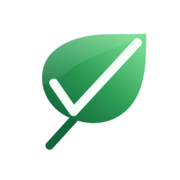
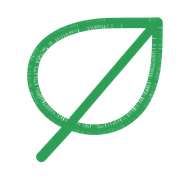
listik-bkhj.a: схематичный контурный листик вместо залитого логотипа
Контур web/public/logo.svg по силуэту прежнего листа; favicon-32.png, apple-touch-icon.png и favicon.ico перегенерированы из той же геометрии.

diff --git a/web/src/components/AppHeader.vue b/web/src/components/AppHeader.vue
@@ -8,7 +8,7 @@
  * Метрики) — в App.vue как UiSegmented: он ничего не переключает в
  * контенте сам, это radiogroup, а не tablist, и он же несёт счётчики.
  *
- * Марка — картинка /logo.svg (зелёный лист, жилка которого — галочка), не UiBrandMark; многоточие названию ставит приложение: слот #brand в ките
+ * Марка — картинка /logo.svg (зелёный контурный лист с черешком и центральной жилкой), не UiBrandMark; многоточие названию ставит приложение: слот #brand в ките
  * сжимается и обрезает содержимое, а кит не знает, какой элемент слота текстовый.
  *
  * Живость сервера показывает один индикатор (health-статус), не два: раньше
@@ -114,7 +114,7 @@ const themeLabel = computed(() => (theme.value === 'dark' ? 'Включить с
 <template>
   <UiAppHeader>
     <template #brand>
-      <!-- Знак Listik — зелёный лист, чья центральная жилка складывается в галочку. Не UiBrandMark:
+      <!-- Знак Listik — зелёный контурный лист с черешком и прямой центральной жилкой. Не UiBrandMark:
            у марки кита свой градиентный фон и рамка, а знак — самостоятельная цветная иконка -->
       <!-- Марка ведёт на доску: обычный клик переключает вид без перезагрузки, клик с
            модификатором/средней кнопкой отдаётся браузеру (новая вкладка на «/»). -->

diff --git a/web/src/assets/app.css b/web/src/assets/app.css
@@ -257,7 +257,7 @@ body {
   font-size: var(--text-xs);
 }
 
-/* Логотип — лист с жилкой-галочкой на прозрачном фоне, читается в обеих темах */
+/* Логотип — контурный лист на прозрачном фоне, читается в обеих темах */
 .listik-shell__brand-logo {
   flex-shrink: 0;
   width: var(--space-7);
